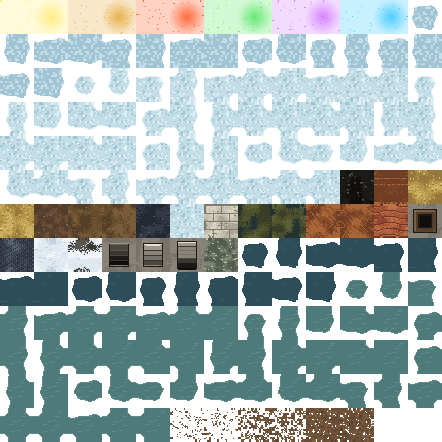
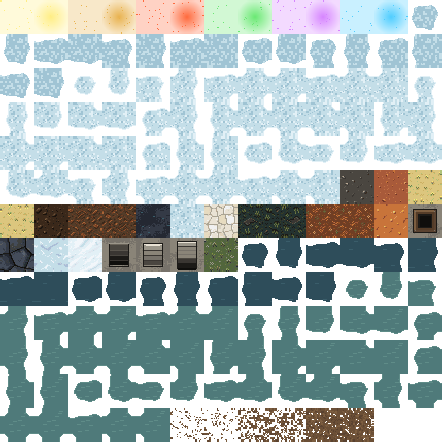
Art pass 1: PixelLab ground, trees, furniture and workshops in art/final
The packer now takes art/final/<sheet>/<name>.png over the script frame of
the same name, so 6B threads can keep running the draw scripts. 83 frames
made with PixelLab on art/palette.gpl (provenance in art/PROVENANCE.md).
Awaiting Morgan's answers on the art form before merge.

Claude-Session: https://claude.ai/code/session_01Dr9VTsK6axBCqSA4NDsN2u

Changed region(s): [[0.4412, 0.3824, 1.0, 0.6176], [0.0, 0.4412, 0.3235, 0.6176]]

diff --git a/art/PROVENANCE.md b/art/PROVENANCE.md
@@ -31,6 +31,8 @@ One line per asset group: path, how it was made, date, licence of any input (SAF
 - `item.smock`, `item.tunic`, `item.leather-coat`, `item.hide-coat`, `item.wool`, `item.linen`, `item.fur`, `item.flax` (8 icons added to `items`, now 74) in `items`; `furn.loom`, `furn.pits`, `field.ripe.flax` (3 frames added to `buildings`, now 170): drawn by `tools/draw-clothes.mjs` (called from `draw-items.mjs`), `tools/draw-loom.mjs` and `tools/draw-fields.mjs` from `art/palette.gpl`, 2026-10-26; own work, no outside inputs. 1 px ink outline on icons and furniture; the loom is an upright warp-weighted loom against a wall, the pit one tile of brown liquor in a timber edge (the station shows one per pit); flax is slim green stalks with small blue flowers. `item.cloth`, `item.leather`, `item.cloak` and `item.hide` are reused as drawn.
 - `item.candle`, `item.wax-candle`, `item.wax`, `item.honey`, `item.soap`, `item.ash`, `skep.plan`, `skep.empty`, `skep.bees` (9 frames added to `items`, now 85): drawn by `tools/draw-lamp.mjs` from `art/palette.gpl`, 2026-10-26; own work, no outside inputs. 1 px ink outline; `skep.plan` is the empty skep, which the page draws at half opacity.
 
+- `art/final/` (83 frames in `tiles-base`, `tiles-world`, `sprites-nature`, `buildings`; list in the project files `vulcan/art-pass1/final-list.json`): made with PixelLab (api.pixellab.ai, Tier 1 subscription; `create-tileset` mode pro and `create-image-pro-flash` at 32 px on `art/palette.gpl`), 2026-11-20 (bush, boulder and well from art round 2, 2026-11-18), then cleaned to the palette and cut to the art names by `vulcan/art-pass1/build_final.py` (grass desaturated a third and darkened a sixth toward olive, V-166; half and quarter floors masked by the script frames' shapes; turned chairs, shelves and bed). Inputs: text prompts only, no Gemini or other images. PixelLab's terms (pixellab.ai/termsofservice, updated 2026-10-30) give the user the copyright, for commercial and non-commercial use, with no attribution. The packer uses these over the `art/src` frame of the same name.
+
 ## Runtime code (SAFE-05)
 
 - `phaser` 4.2.1 (npm): MIT licence, as its `package.json` states; why: V-001.

diff --git a/docs/ART.md b/docs/ART.md
@@ -23,6 +23,6 @@ Flat-shaded pixel art in the muted palette, readable at 32 px, nothing drawn bef
 | 5B B5 | `items`, `buildings` | garments, cloth, `furn.loom`, `furn.pits`, `field.ripe.flax` (`draw-clothes`, `draw-loom`) |
 | Phase 5 onward | later | sickbed, creatures, dragon, fire, caravan |
 
-Layout: `art/src/<sheet>/<name>.png` packed by `tools/pack-sheet` into `public/art/<sheet>.png` and `<sheet>.json`. Naming: `<category>.<name>[.<variant>][.<facing>][.<frame>]`, for example `tile.grass.2`, `wall.stone.n-e`, `person.dwarf.s.1`, `item.ingot.bronze`. Content refers to art only by name. The final art (V-034: AI-made images Morgan picks from, cleaned to the palette) replaces files in `art/src` with the same names and sizes; the packer rebuilds and nothing else changes. Every asset's source and licence go in `art/PROVENANCE.md` (SAFE-05).
+Layout: `art/src/<sheet>/<name>.png` packed by `tools/pack-sheet` into `public/art/<sheet>.png` and `<sheet>.json`. Naming: `<category>.<name>[.<variant>][.<facing>][.<frame>]`, for example `tile.grass.2`, `wall.stone.n-e`, `person.dwarf.s.1`, `item.ingot.bronze`. Content refers to art only by name. The final art (V-034: AI-made images Morgan picks from, cleaned to the palette) replaces files in `art/src` with the same names and sizes; the packer rebuilds and nothing else changes. Final art goes in `art/final/<sheet>/<name>.png` (same names and sizes); the packer uses it over the `art/src` frame, so the draw scripts can keep running and never overwrite it, and a final frame with no `art/src` twin is an error. Every asset's source and licence go in `art/PROVENANCE.md` (SAFE-05).
 
 Each phase file says which rows it needs. Asset sources and licences: `art/PROVENANCE.md`.
